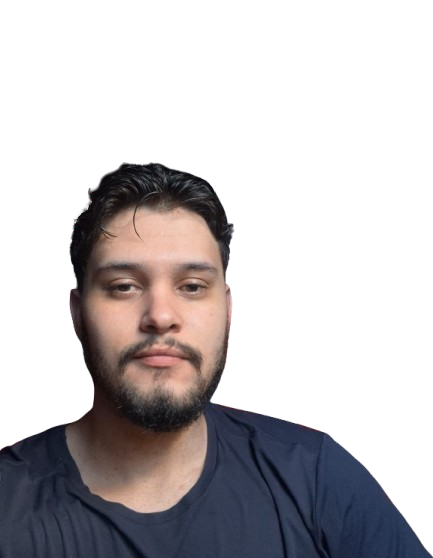
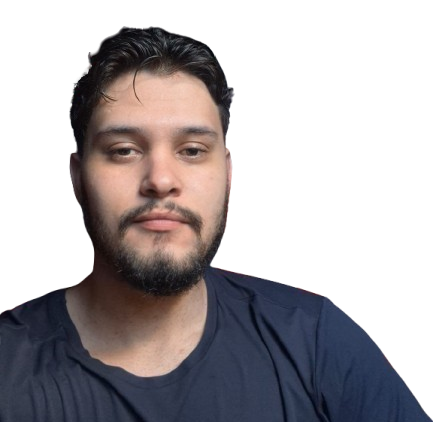
feito o comeco da responsividade para celular

diff --git a/src/Paginas/Public/SobreMim/sections/sectionQuemSouEu/quemSouEu.module.css b/src/Paginas/Public/SobreMim/sections/sectionQuemSouEu/quemSouEu.module.css
@@ -158,6 +158,7 @@
     margin: 0 13rem;
 }
 
+
 @media(max-width: 1440px){
     .tituloSkills2{
         top: 28%;
@@ -181,12 +182,118 @@
 @media(max-width: 1024px){
     .divQuemSouEuTexto div{
         text-align: center;
-        margin-bottom:1rem; 
     };
 }
 
+@media(max-width: 780px){
+    
+}
+
 @media(max-width: 480px){
+    .secaoQuemSouEuWrapper{
+        height: auto;
+    }
+
+    .secaoQuemSouEu {
+        display: flex;
+        flex-direction: column;
+        justify-content: flex-start;
+        align-items: center;
+        width: 100%;
+        height: auto;
+        will-change: auto;
+    }
+
+    /* texto vem primeiro visualmente */
+    .divQuemSouEuTexto{
+        order: 1;
+        position: static;
+        width: 90%;
+        height: auto;
+        align-items: center;
+        text-align: center;
+        gap: 1.5rem;
+        padding-top:3rem;
+    }
+
+    /* imagem vem depois */
+    .containerImagem{
+        order: 2;
+        width: 100%;
+        height: auto;
+    }
+
     .imagemQuemSou{
         width: 100%;
+        height: 500px;
+    }
+
+    .containerSkills{
+        order: 3;
+        flex-direction: column;
+        width: 100%;
+        height: auto;
+        margin-left: 0;
+        gap: 3rem;
+        padding: 2rem 0;
+    }
+
+    .divQuemSouEuTexto h3,
+    .divQuemSouEuTexto p{
+        width: 100%;
+    }
+
+    .divQuemSouEuTexto div{
+        position: relative;
+        top: 260px;
+        width: 100%;
+    }
+
+    .boxSkills{
+        margin-top: 3rem;
+        flex-direction: column;
+        width: 100%;
+    }
+
+    .containerTitulosSkills,
+    .containerTitulosMentalidade{
+        justify-items: center;
+        text-align: center;
+    }
+
+    .tituloSkills1{
+        font-size: var(--font-size-2x2);
+        margin-left: 0;
+        transform: none;
+    }
+
+    .tituloSkills2{
+        font-size: var(--font-size-2xl);
+        margin-left:8rem;
+        transform: translateY(2.2em);
+    }
+
+    .tituloMentalidade1{
+        font-size: var(--font-size-2xl);
+        margin-left: 0;
+        margin-left: -5.2em;
+        transform: translateY(-1.8em);
+    }
+
+    .tituloMentalidade2{
+        font-size: var(--font-size-2x2);
+        margin-left: 5px;
+        transform: none;
+    }
+
+    .linhaSkills{
+        flex-direction: column;
+        margin: 5rem 0;
+        gap: 1.5rem;
+        text-align: center;
+    }
+
+    .containerContinue{
+        display: none;
     }
 }

diff --git a/src/Paginas/Public/SobreMim/sections/sectionQuemSouEu/index.jsx b/src/Paginas/Public/SobreMim/sections/sectionQuemSouEu/index.jsx
@@ -5,12 +5,12 @@ import CssQuemSouEu from "./quemSouEu.module.css"
 import BotaoCta from "../../../../../Componentes/Buttons/BotaoCta"
 import imgJoaoDev from "../../../../../assets/fotoDoJoaoDesenvolvedorDaPagina.png"
 import imgSetaDireta from "../../../../../assets/setaParaDireita.png"
-import { useScrollAnimationTitulosSkills } from "../../../../../hooks/useScrollAnimationTituloSkills"
+/*import { useScrollAnimationTitulosSkills } from "../../../../../hooks/useScrollAnimationTituloSkills"
 import { useScrollAnimationTitulosMentalidade } from "../../../../../hooks/useScrollAnimationTitulosMentalidade"
 import { useScrollAnimationLetrasSkills } from "../../../../../hooks/useScrollAnimationLetrasSkills"
 import { useScrollAnimationLetrasMentalidade } from "../../../../../hooks/useScrollAnimationLetrasMentalidade"
 import useLayoutEffectSobreMimTextos from "../../../../../hooks/useScrollAnimationSobreMimTextoPrincipal"
-import { useScrollAnimationSeta } from "../../../../../hooks/useScrollAnimationSeta"
+import { useScrollAnimationSeta } from "../../../../../hooks/useScrollAnimationSeta"*/
 
 gsap.registerPlugin(ScrollTrigger)
 
@@ -41,7 +41,7 @@ function SecaoQueSouEu(){
     useLayoutEffect(() => {
         const ctx = gsap.context(() => {
             ScrollTrigger.matchMedia({
-                "(min-width: 701px)": function() {
+                "(min-width: 780px)": function() {
                     const track = trackRef.current
 
                     const getScrollAmount = () => {
@@ -71,12 +71,12 @@ function SecaoQueSouEu(){
         return () => ctx.revert()
     }, [])
 
-    useScrollAnimationTitulosSkills(contTituloSkills, [item2, item1])
+    /*useScrollAnimationTitulosSkills(contTituloSkills, [item2, item1])
     useScrollAnimationTitulosMentalidade(contMenta, [item3, item4])
     useScrollAnimationLetrasSkills(contTituloSkills, [h3Skill1, h3Skill2, h3Skill3])
     useScrollAnimationLetrasMentalidade(contMenta, [h3Mental1, h3Mental2, h3Mental3])
     useLayoutEffectSobreMimTextos(contTituloSobreMim, h3TituloSobreMim, pTextoSobreMim, divBotao, contSeta)
-    useScrollAnimationSeta(contSeta, seta)
+    useScrollAnimationSeta(contSeta, seta)*/
 
     return(
         <section>

diff --git a/src/Componentes/Buttons/BotaoCta/botaoCta.module.css b/src/Componentes/Buttons/BotaoCta/botaoCta.module.css
@@ -22,19 +22,20 @@
     0% 30%
   );
 
-  z-index: 0;
+  z-index: 1;
 }
 
 .btnCta{
   position: relative;
   background-color: var(--background-segunda-camada);
   color: #fff;
-  font-size: var(--font-size-lg);
+  font-weight: 800;
+  font-size: var(--font-size-xl);
   min-width: 100%;
-  padding: 32px 88px;
+  padding: 32px 20px;
   border: none;
   cursor: pointer;
-  z-index: 1;
+  z-index: 2;
   border-radius: 8px;
   font-family: var(--font-paraTexto);
 
@@ -69,32 +70,20 @@
     left: 0;
 }
 
-@media(max-width: 1700px){
-  .btnCta{
-    font-size: var(--font-size-md);
-    padding: 32px 50px;
-  } 
-}
-
-@media(max-width: 1430px){
-    .btnCta{
-        font-size: var(--font-size-md);
-        padding: 32px 50px;
-    } 
+@media(max-width: 1440px){
+   
 }
 
 @media(max-width: 480px){
     .btnCta{
         width: 300px;
-        font-size: 16px;
-        padding: 26px 48px;
+        padding: 32px 10px;
     }
 }
 
 @media(max-width: 300px){
     .btnCta{
         width: 220px;
-        font-size: 16px;
-        padding: 26px 48px;
+
     }
 }

diff --git a/src/Paginas/Public/SobreMim/sections/sectionHeroSobreMim/heroSobreMim.module.css b/src/Paginas/Public/SobreMim/sections/sectionHeroSobreMim/heroSobreMim.module.css
@@ -13,7 +13,7 @@
     justify-content: center;
     width: 100%;
     gap: 1rem;
-    padding-left: 2rem;
+    
     color: #fff;
 }
 
@@ -42,11 +42,19 @@
     .secaoHeroSobreMim{
         padding: 4rem 8rem;
     }
+
+    .secaoHeroSobreMim{
+        padding: 4rem 2rem;
+    }
 }
 
-@media(max-width: 1024px){
+@media(max-width: 1100px){
     .secaoHeroSobreMim{
         padding: 4rem 3rem;
+    }
+
+    .containerTextoSobreMimHero h1{
+        font-size: var(--font-size-4xl);
     }
 }
 

diff --git a/src/hooks/useScrollAnimationSeta.js b/src/hooks/useScrollAnimationSeta.js
@@ -12,7 +12,7 @@ export function useScrollAnimationSeta(el, seta) {
             const tl = gsap.timeline({
                 scrollTrigger: {
                     trigger: el.current,
-                    markers: true,
+                    //markers: true,
                     scrub: 3,
                     start: isMobile ? "-350% 50%" : "-50% 10%",
                     end: isMobile ? "-220% 50%" : "200% 10%",

diff --git a/src/Paginas/Public/SobreMim/sobreMim.module.css b/src/Paginas/Public/SobreMim/sobreMim.module.css
@@ -50,16 +50,13 @@
 }
 
 @media(max-width: 1440px){
-    .divBackGroundVerdeQuemSouEu{
-        height: 1010vh;
-    }
-
+    
 }
 
 @media(max-width: 1024px){
     
 }
 
-@media(max-width: 768px){
+@media(max-width: 780px){
     
 }

diff --git a/src/style/reset.css b/src/style/reset.css
@@ -180,6 +180,11 @@ p{
       width: 100%;
     }
 
+    h5{
+        -webkit-box-shadow: 9px 9px 1px 0px #F2F2F2; 
+        box-shadow: 9px 9px 1px 0px #F2F2F2;
+    }
+
     /*h1{
       font-size: var(--font-size-3xl);
     }*/
